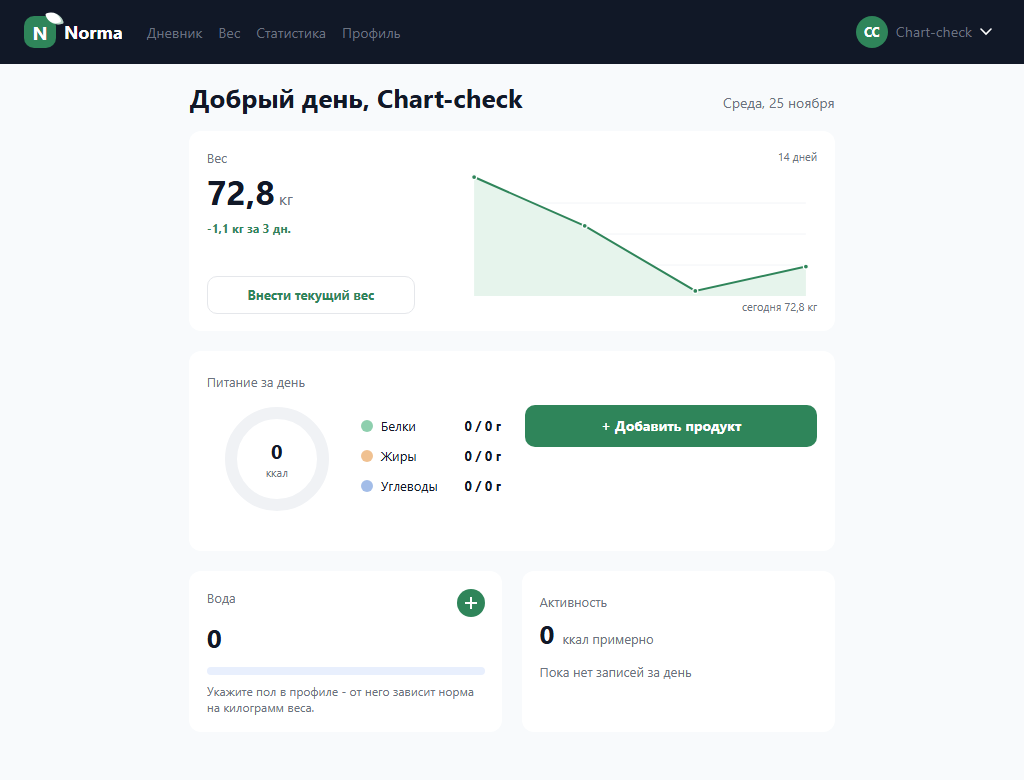
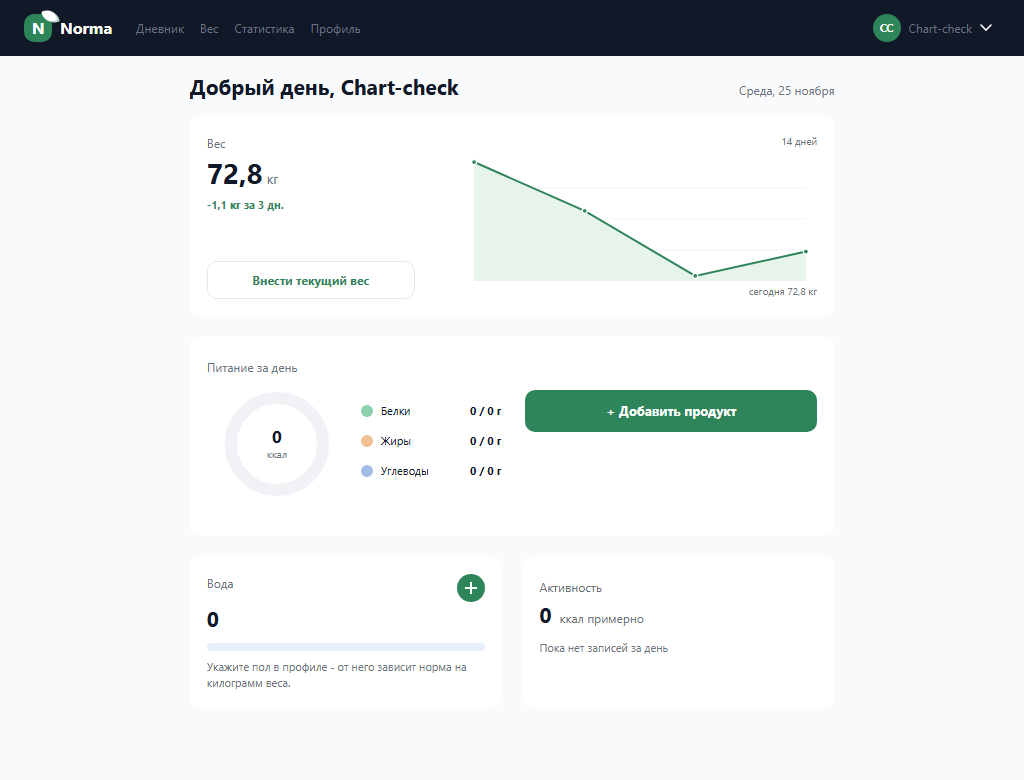
feat(web): адаптивная типографика главного экрана
Кегли переведены в clamp с опорой на 1440: число веса 28-44 px, заголовки 21-32, подписи 11-15, шапка 56-72 px высотой. Текст растет вместе с карточками, на мобильном упирается в минимум. Скриншоты 1920 и 1024 приложены.

diff --git a/web/src/app/pages/home/home.page.scss b/web/src/app/pages/home/home.page.scss
@@ -481,3 +481,94 @@
     height: 120px;
   }
 }
+
+/*
+ * Типографика тоже резиновая: в макете кегли посчитаны для 1440, поэтому
+ * переводим их в vw и ограничиваем min/max, чтобы текст рос вместе с карточками.
+ */
+.greeting h1 {
+  font-size: clamp(21px, 1.8vw, 32px);
+  line-height: 1.25;
+}
+
+.greeting-date {
+  font-size: clamp(12px, 0.97vw, 17px);
+}
+
+.card-label {
+  font-size: clamp(12px, 0.9vw, 15px);
+}
+
+.weight-value {
+  .value {
+    font-size: clamp(28px, 2.36vw, 44px);
+    line-height: 1.2;
+  }
+
+  .unit {
+    font-size: clamp(13px, 1.1vw, 19px);
+  }
+
+  .goal {
+    font-size: clamp(12px, 0.9vw, 15px);
+  }
+}
+
+.delta {
+  font-size: clamp(11px, 0.83vw, 14px);
+}
+
+.weight-button {
+  font-size: clamp(12px, 0.9vw, 16px);
+}
+
+.chart-caption,
+.chart-today {
+  font-size: clamp(10px, 0.76vw, 13px);
+}
+
+.legend-label,
+.legend-value {
+  font-size: clamp(11px, 0.9vw, 15px);
+}
+
+.ring-center {
+  strong {
+    font-size: clamp(17px, 1.4vw, 24px);
+    line-height: 1.2;
+  }
+
+  span {
+    font-size: clamp(10px, 0.76vw, 13px);
+  }
+}
+
+.nutrition-target {
+  font-size: clamp(11px, 0.83vw, 14px);
+}
+
+.primary-button {
+  font-size: clamp(13px, 0.97vw, 17px);
+}
+
+.remaining,
+.remaining-macros {
+  font-size: clamp(11px, 0.83vw, 14px);
+}
+
+.water-value,
+.activity-value {
+  .value {
+    font-size: clamp(21px, 1.8vw, 32px);
+    line-height: 1.2;
+  }
+
+  .unit {
+    font-size: clamp(12px, 0.9vw, 15px);
+  }
+}
+
+.water-remaining,
+.activity-entry {
+  font-size: clamp(11px, 0.83vw, 15px);
+}

diff --git a/web/src/styles.scss b/web/src/styles.scss
@@ -386,3 +386,42 @@ a {
     visibility: visible;
   }
 }
+
+/* Шапка тоже тянется: высота и кегли растут вместе с шириной экрана. */
+.topbar {
+  height: clamp(56px, 4.44vw, 72px);
+}
+
+.brand-mark {
+  width: clamp(28px, 2.22vw, 38px);
+  height: clamp(28px, 2.22vw, 38px);
+  font-size: clamp(16px, 1.3vw, 23px);
+}
+
+.brand-name {
+  font-size: clamp(16px, 1.25vw, 22px);
+}
+
+.topbar nav a {
+  font-size: clamp(12px, 0.97vw, 16px);
+}
+
+.account-name {
+  font-size: clamp(12px, 0.97vw, 16px);
+}
+
+.avatar {
+  width: clamp(28px, 2.22vw, 36px);
+  height: clamp(28px, 2.22vw, 36px);
+}
+
+.avatar.initials {
+  font-size: clamp(11px, 0.8vw, 14px);
+}
+
+.account-menu {
+  a,
+  .menu-item {
+    font-size: clamp(13px, 0.97vw, 16px);
+  }
+}
